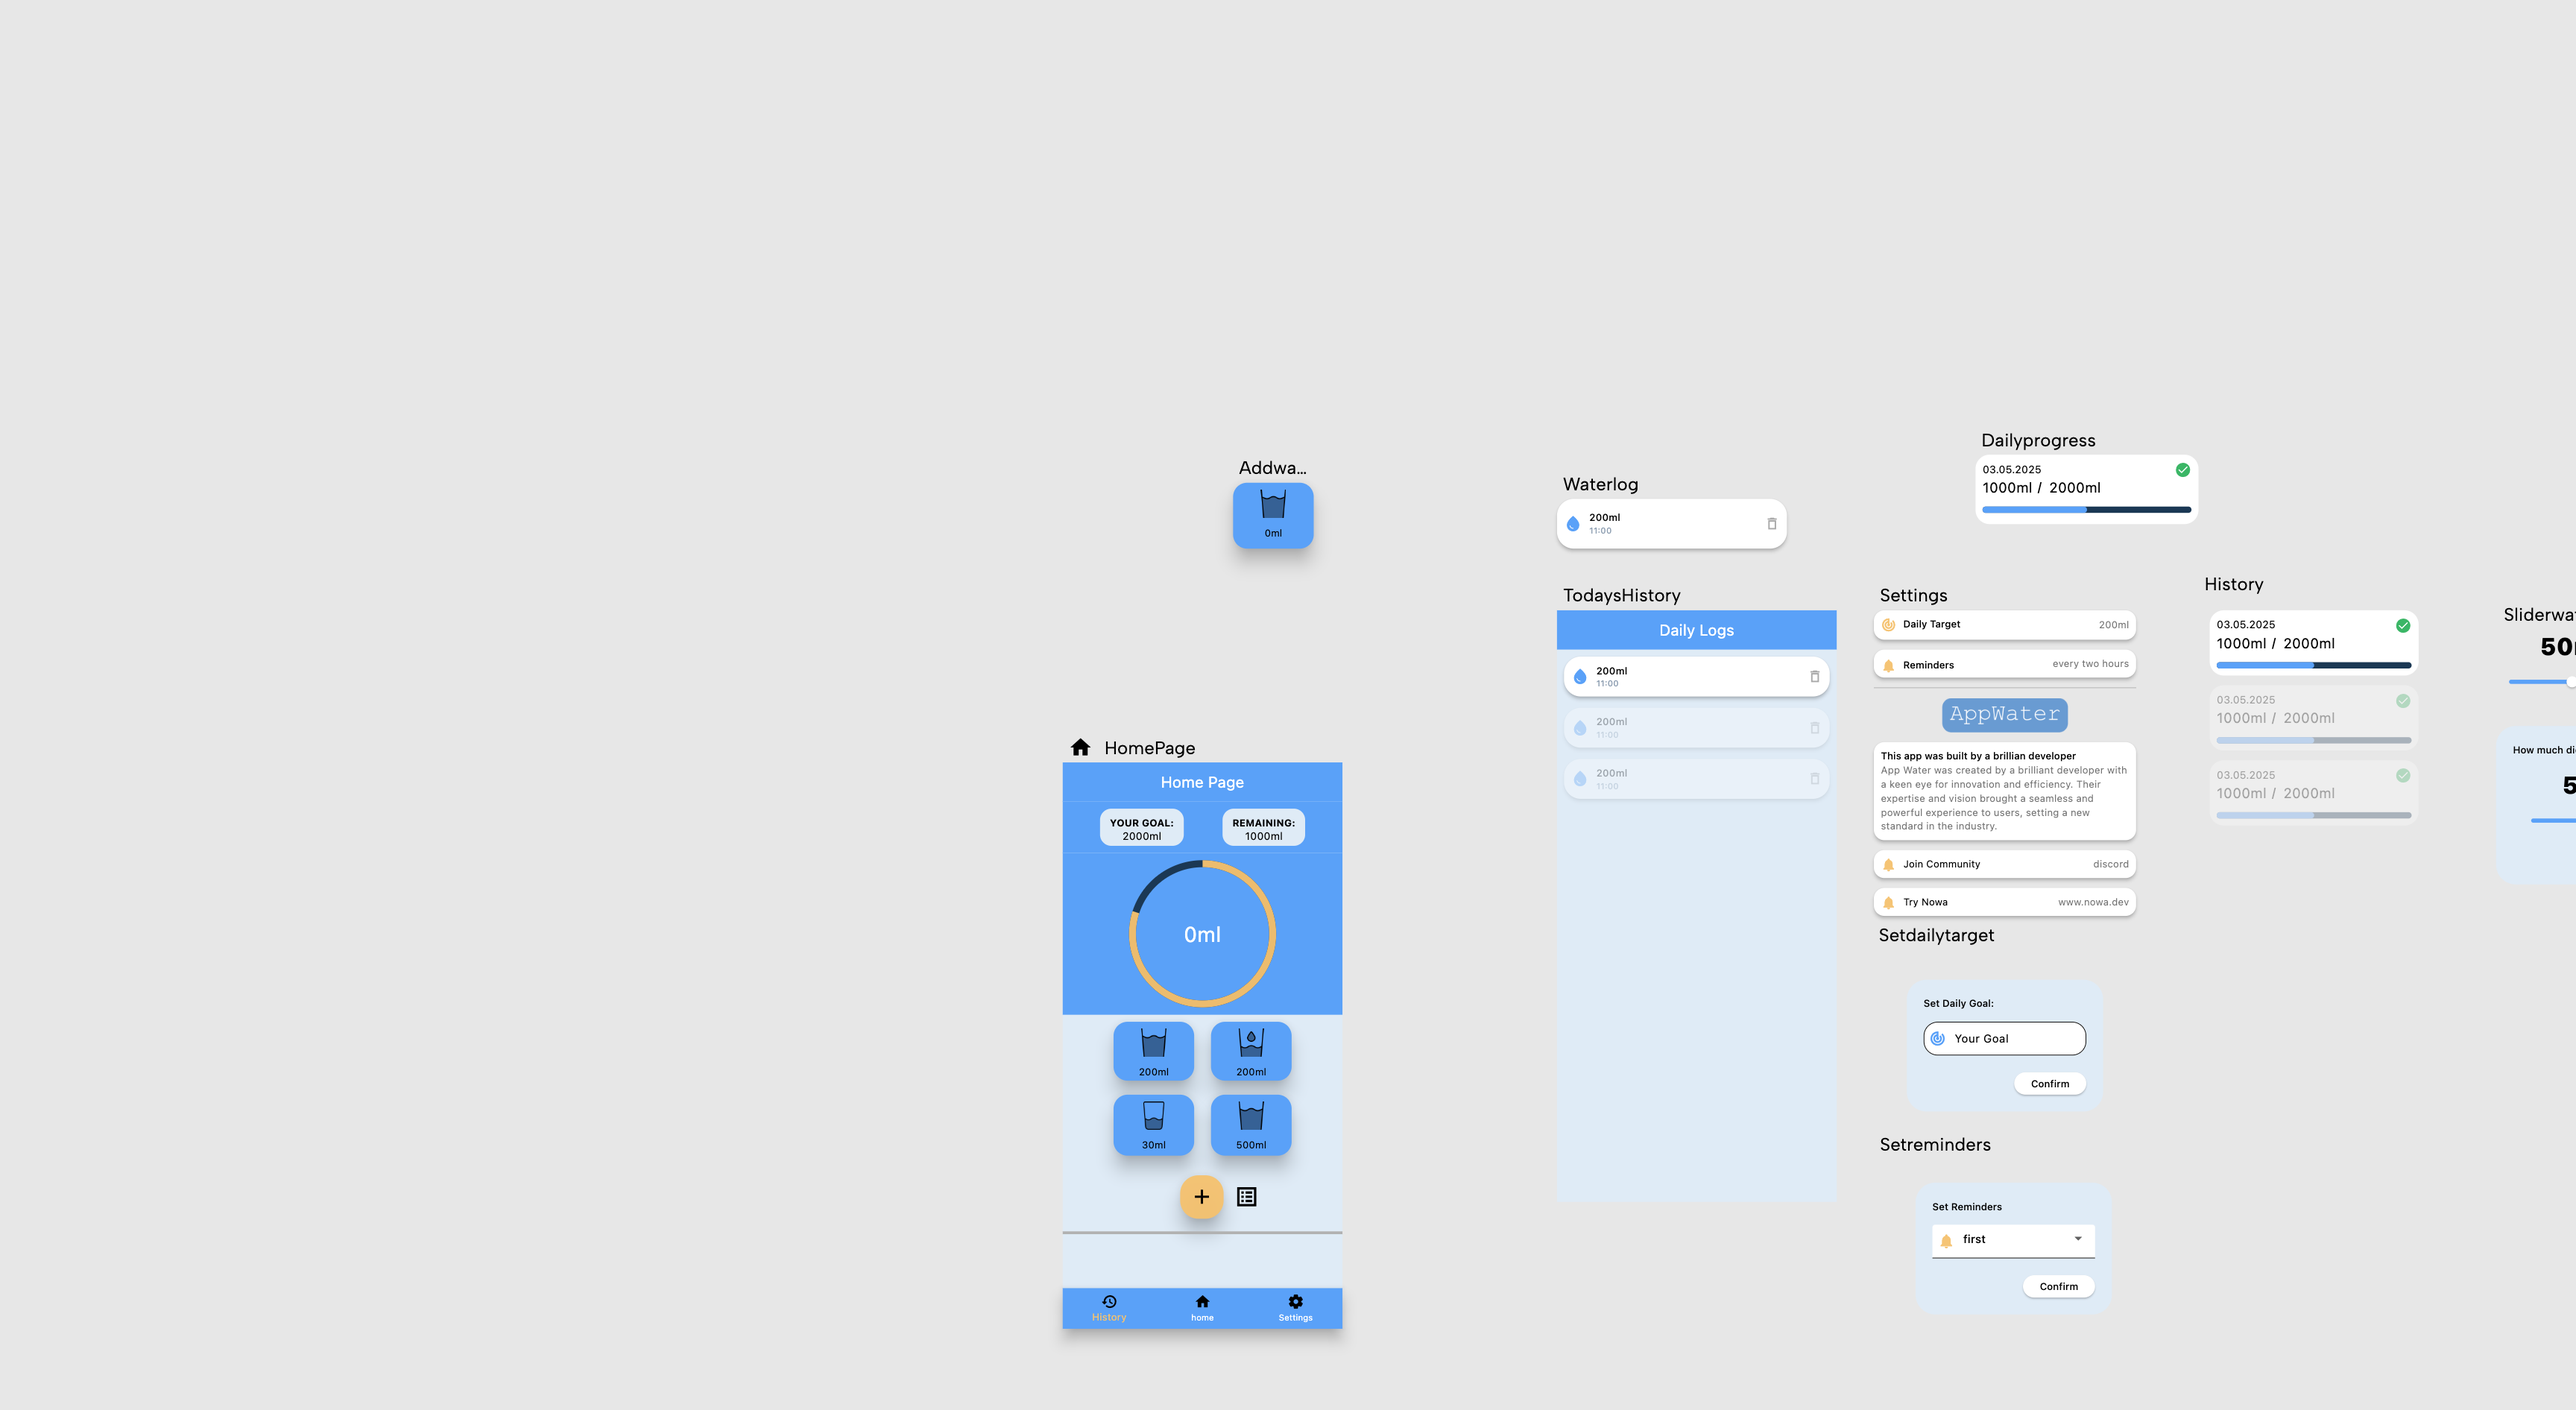
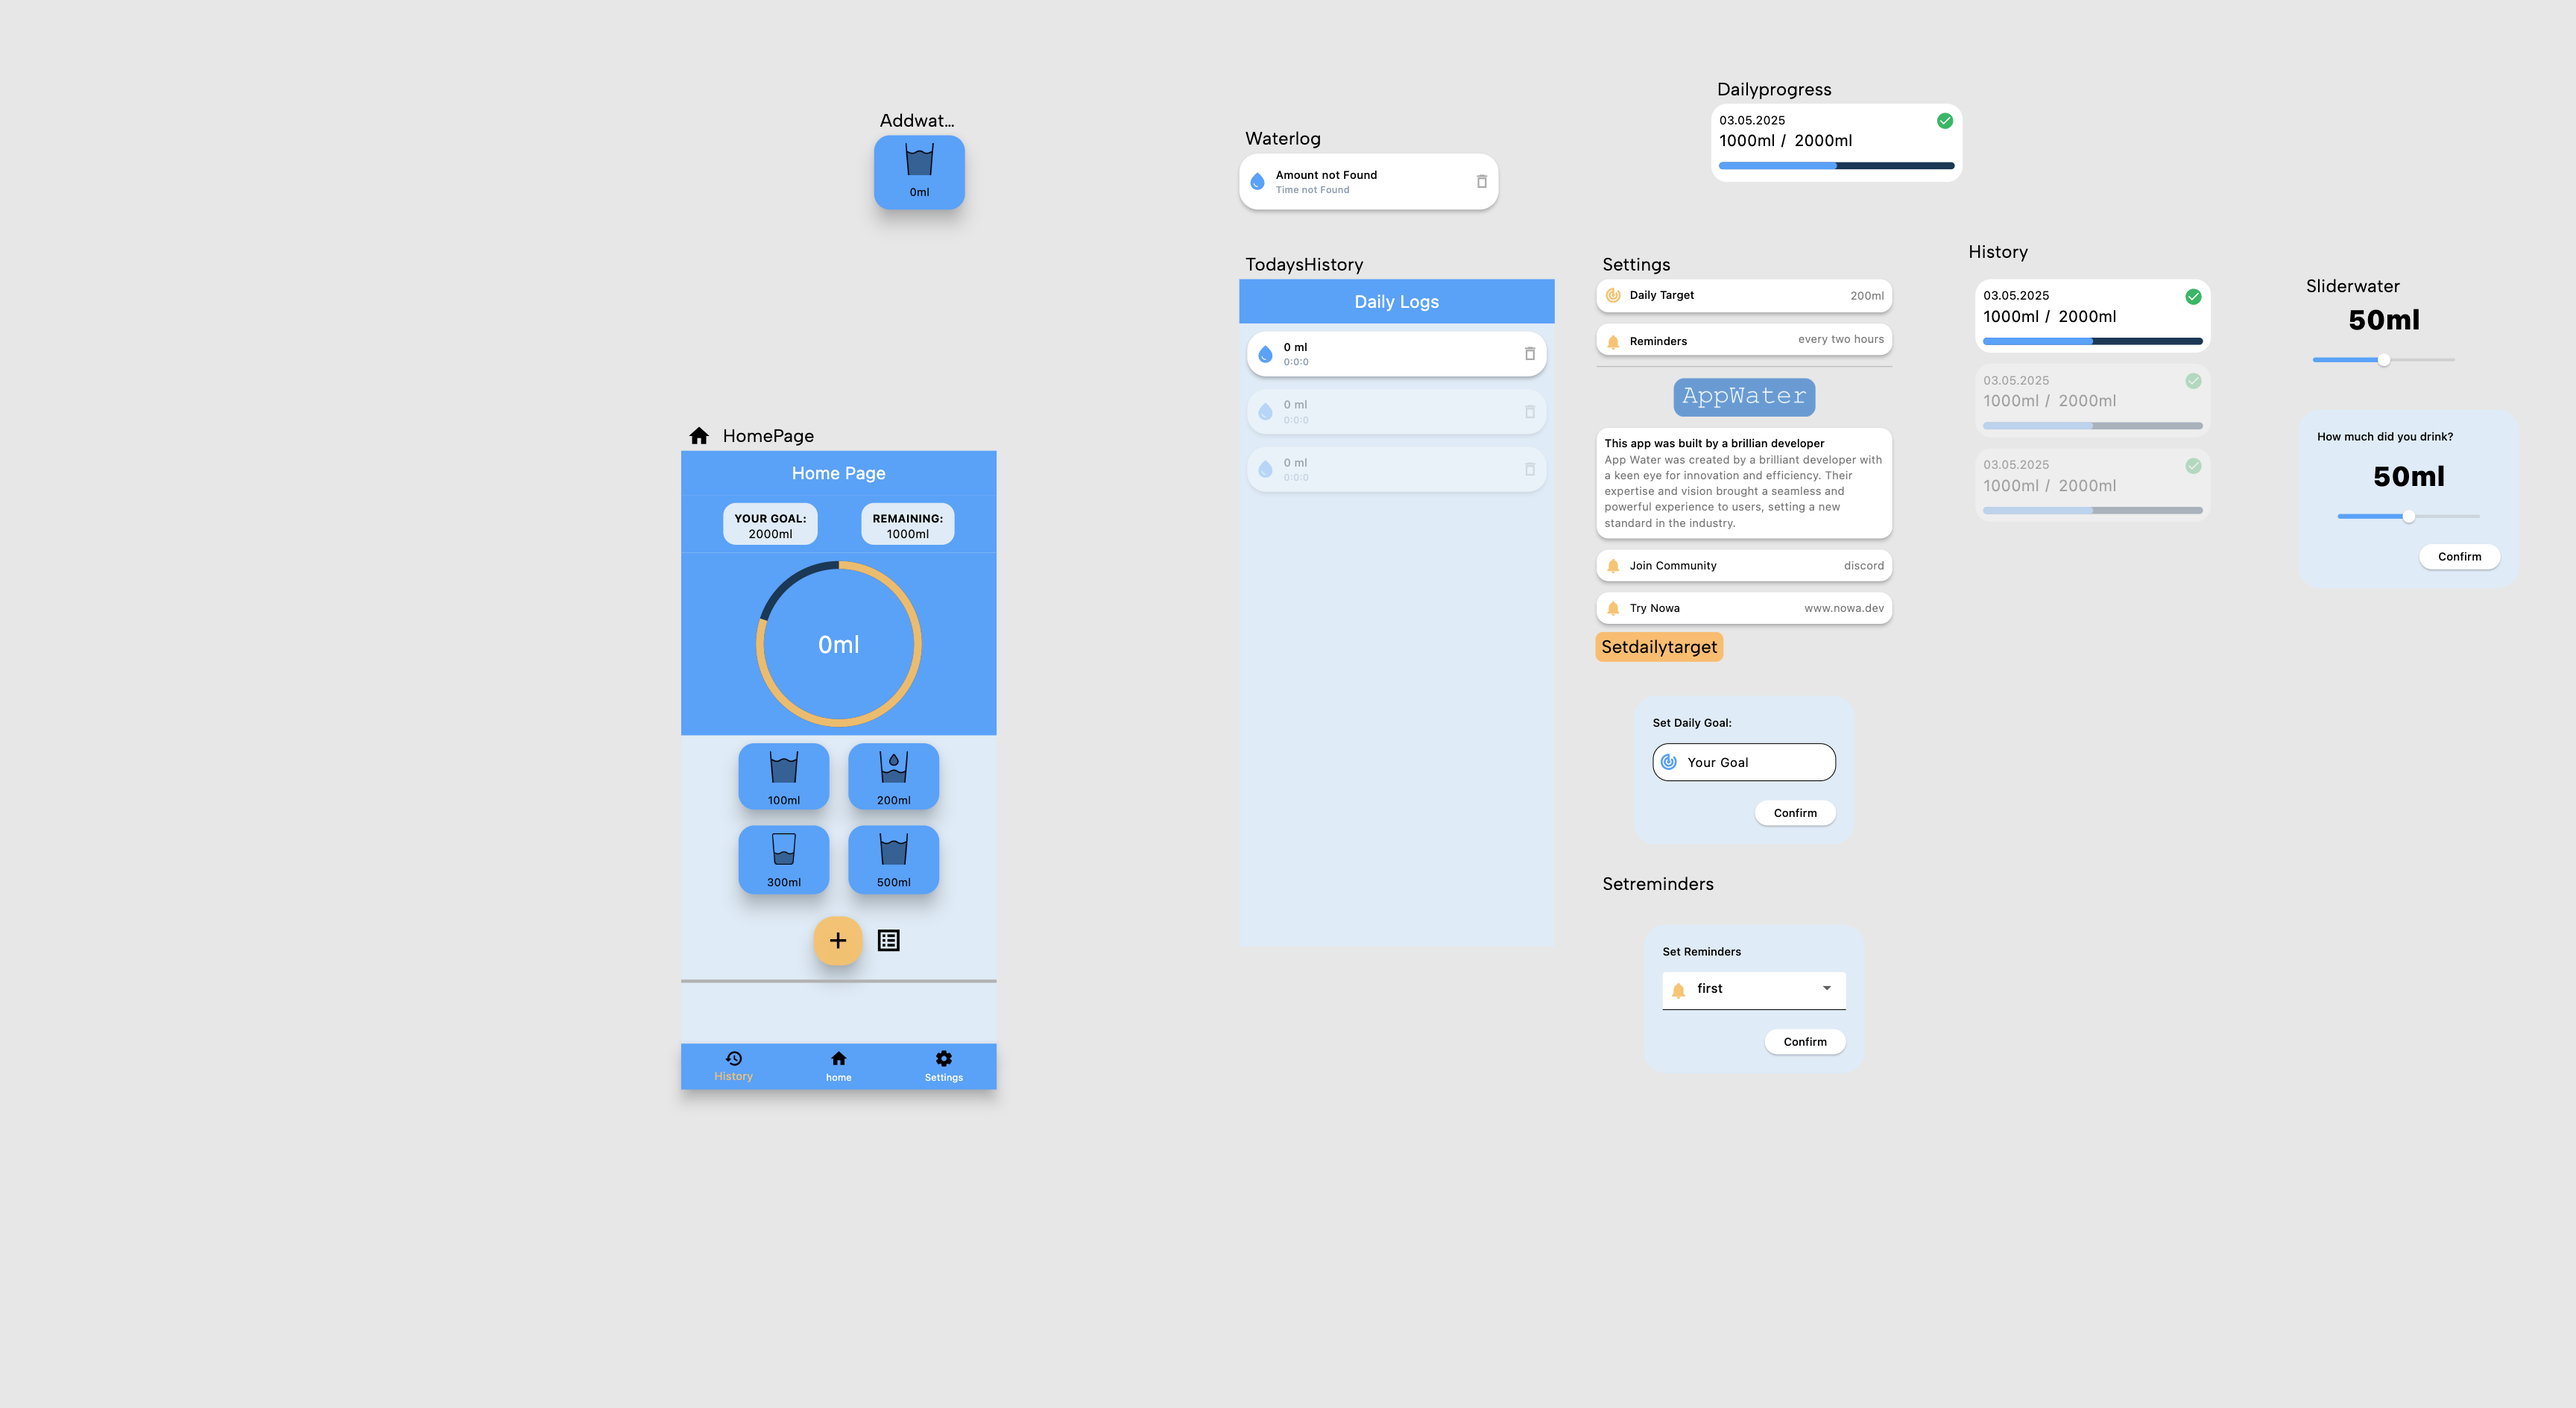
Lesson 3
Lots of parameters and usage of deleting components on the screen

diff --git a/lib/waterlog.dart b/lib/waterlog.dart
@@ -1,10 +1,15 @@
 import 'package:flutter/material.dart';
+import 'package:water_reminder_app/water_log_entry.dart';
 import 'package:nowa_runtime/nowa_runtime.dart';
 
 @NowaGenerated({'auto-width': 328.0, 'auto-height': 71.0})
 class Waterlog extends StatelessWidget {
   @NowaGenerated({'loader': 'auto-constructor'})
-  const Waterlog({super.key});
+  const Waterlog({this.logEntry, this.deleteCallback, super.key});
+
+  final WaterLogEntry? logEntry;
+
+  final void Function()? deleteCallback;
 
   @override
   Widget build(BuildContext context) {
@@ -47,7 +52,7 @@ class Waterlog extends StatelessWidget {
                   ),
                   FlexSizedBox(
                     width: null,
-                    height: null,
+                    height: 37.0,
                     child: NFlex(
                       direction: Axis.vertical,
                       spacing: 0.0,
@@ -59,7 +64,9 @@ class Waterlog extends StatelessWidget {
                           width: null,
                           height: null,
                           child: Text(
-                            '200ml',
+                            logEntry != null
+                                ? logEntry!.amount!.toString() + ' ml'
+                                : 'Amount not Found',
                             style: TextStyle(fontWeight: FontWeight.w500),
                           ),
                         ),
@@ -67,7 +74,13 @@ class Waterlog extends StatelessWidget {
                           width: null,
                           height: null,
                           child: Text(
-                            '11:00',
+                            logEntry != null
+                                ? logEntry!.date!.hour.toString() +
+                                    ':' +
+                                    logEntry!.date!.minute.toString() +
+                                    ':' +
+                                    logEntry!.date!.second.toString()
+                                : 'Time not Found',
                             style: TextStyle(
                               fontWeight: FontWeight.w500,
                               fontSize: 12.0,
@@ -81,13 +94,16 @@ class Waterlog extends StatelessWidget {
                 ],
               ),
             ),
-            const FlexSizedBox(
+            FlexSizedBox(
               width: null,
               height: null,
-              child: Icon(
-                IconData(59575, fontFamily: 'MaterialIcons'),
-                color: Color(0x56000000),
-                size: 22.0,
+              child: GestureDetector(
+                onTap: deleteCallback,
+                child: const Icon(
+                  IconData(59575, fontFamily: 'MaterialIcons'),
+                  color: Color(0x56000000),
+                  size: 22.0,
+                ),
               ),
             )
           ],

diff --git a/lib/todays_history.dart b/lib/todays_history.dart
@@ -1,5 +1,7 @@
 import 'package:flutter/material.dart';
 import 'package:nowa_runtime/nowa_runtime.dart';
+import 'package:water_reminder_app/water_state.dart';
+import 'package:water_reminder_app/water_log_entry.dart';
 import 'package:water_reminder_app/waterlog.dart';
 
 @NowaGenerated({'auto-width': 399.0})
@@ -21,8 +23,18 @@ class TodaysHistory extends StatelessWidget {
               width: double.infinity,
               flex: 1,
               child: ListView.separated(
-                itemCount: 3,
-                itemBuilder: (context, index) => const Waterlog(),
+                itemCount: WaterState.of(context).todaysLogs!.length,
+                itemBuilder: (context, index) {
+                  final WaterLogEntry element =
+                      WaterState.of(context).todaysLogs![index];
+                  return Waterlog(
+                    logEntry: element,
+                    deleteCallback: () {
+                      WaterState.of(context, listen: false)
+                          .deleteEntry(item: element);
+                    },
+                  );
+                },
                 separatorBuilder: (context, index) => const SizedBox(
                   height: 16.0,
                   width: 20.0,

diff --git a/lib/pages/home_page.dart b/lib/pages/home_page.dart
@@ -207,7 +207,7 @@ class HomePage extends StatelessWidget {
                       width: 115.0,
                       height: 94.0,
                       child: Addwaterbutton(
-                        cardAmount: 200,
+                        cardAmount: 100,
                       ),
                     ),
                     const FlexSizedBox(
@@ -246,7 +246,7 @@ class HomePage extends StatelessWidget {
                       child: Addwaterbutton(
                         param1:
                             'https://ztqicyaiquupgbfkfvbj.supabase.co/storage/v1/object/public/looseFiles//glass-water-3.png',
-                        cardAmount: 30,
+                        cardAmount: 300,
                       ),
                     ),
                     const FlexSizedBox(

diff --git a/lib/water_state.dart b/lib/water_state.dart
@@ -15,6 +15,12 @@ class WaterState extends ChangeNotifier {
 
   List<WaterLogEntry>? todaysLogs = [];
 
+  void deleteEntry({WaterLogEntry? item = const WaterLogEntry()}) {
+    todaysLogs?.remove(item!);
+    todayWaterIntake = todayWaterIntake! - item!.amount!;
+    notifyListeners();
+  }
+
   void addWaterLog({int? amount = 0}) {
     final waterintake = WaterLogEntry(amount: amount, date: DateTime.now());
     todaysLogs?.insert(0, waterintake);

diff --git a/lib/addwaterbutton.dart b/lib/addwaterbutton.dart
@@ -21,6 +21,7 @@ class Addwaterbutton extends StatelessWidget {
       onTap: () {
         WaterState.of(context, listen: false).addWaterLog(amount: cardAmount);
       },
+      trackpadScrollToScaleFactor: const Offset(0.0, 0.0),
       child: Material(
         color: Theme.of(context).colorScheme.primary,
         shape: RoundedRectangleBorder(
